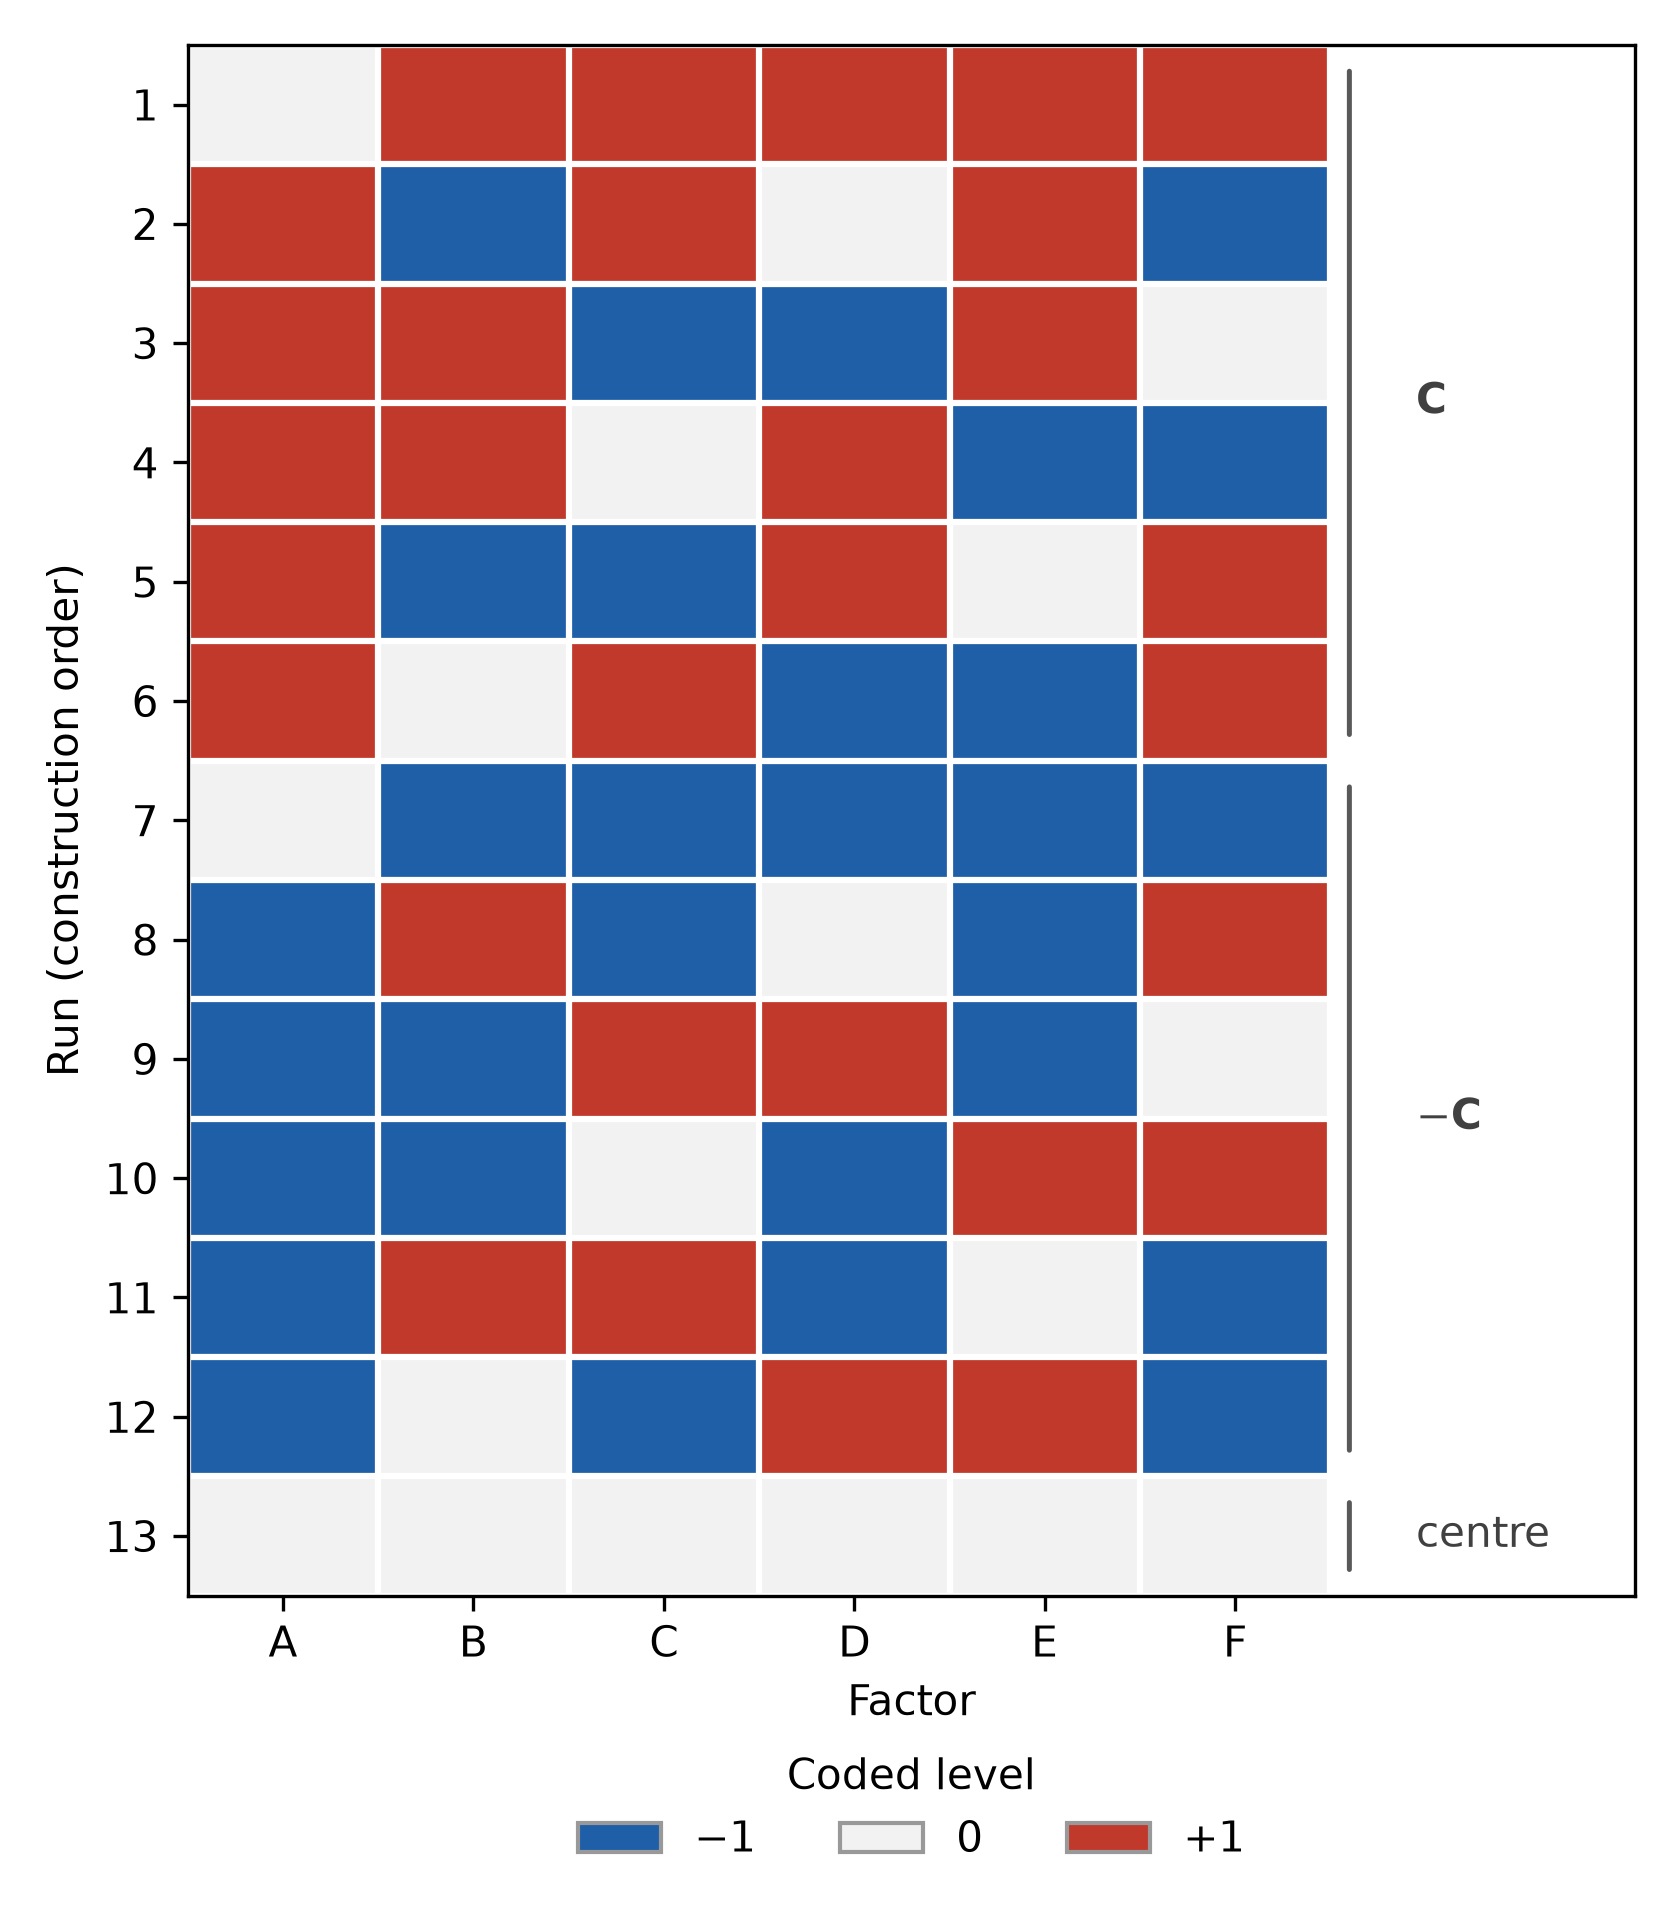
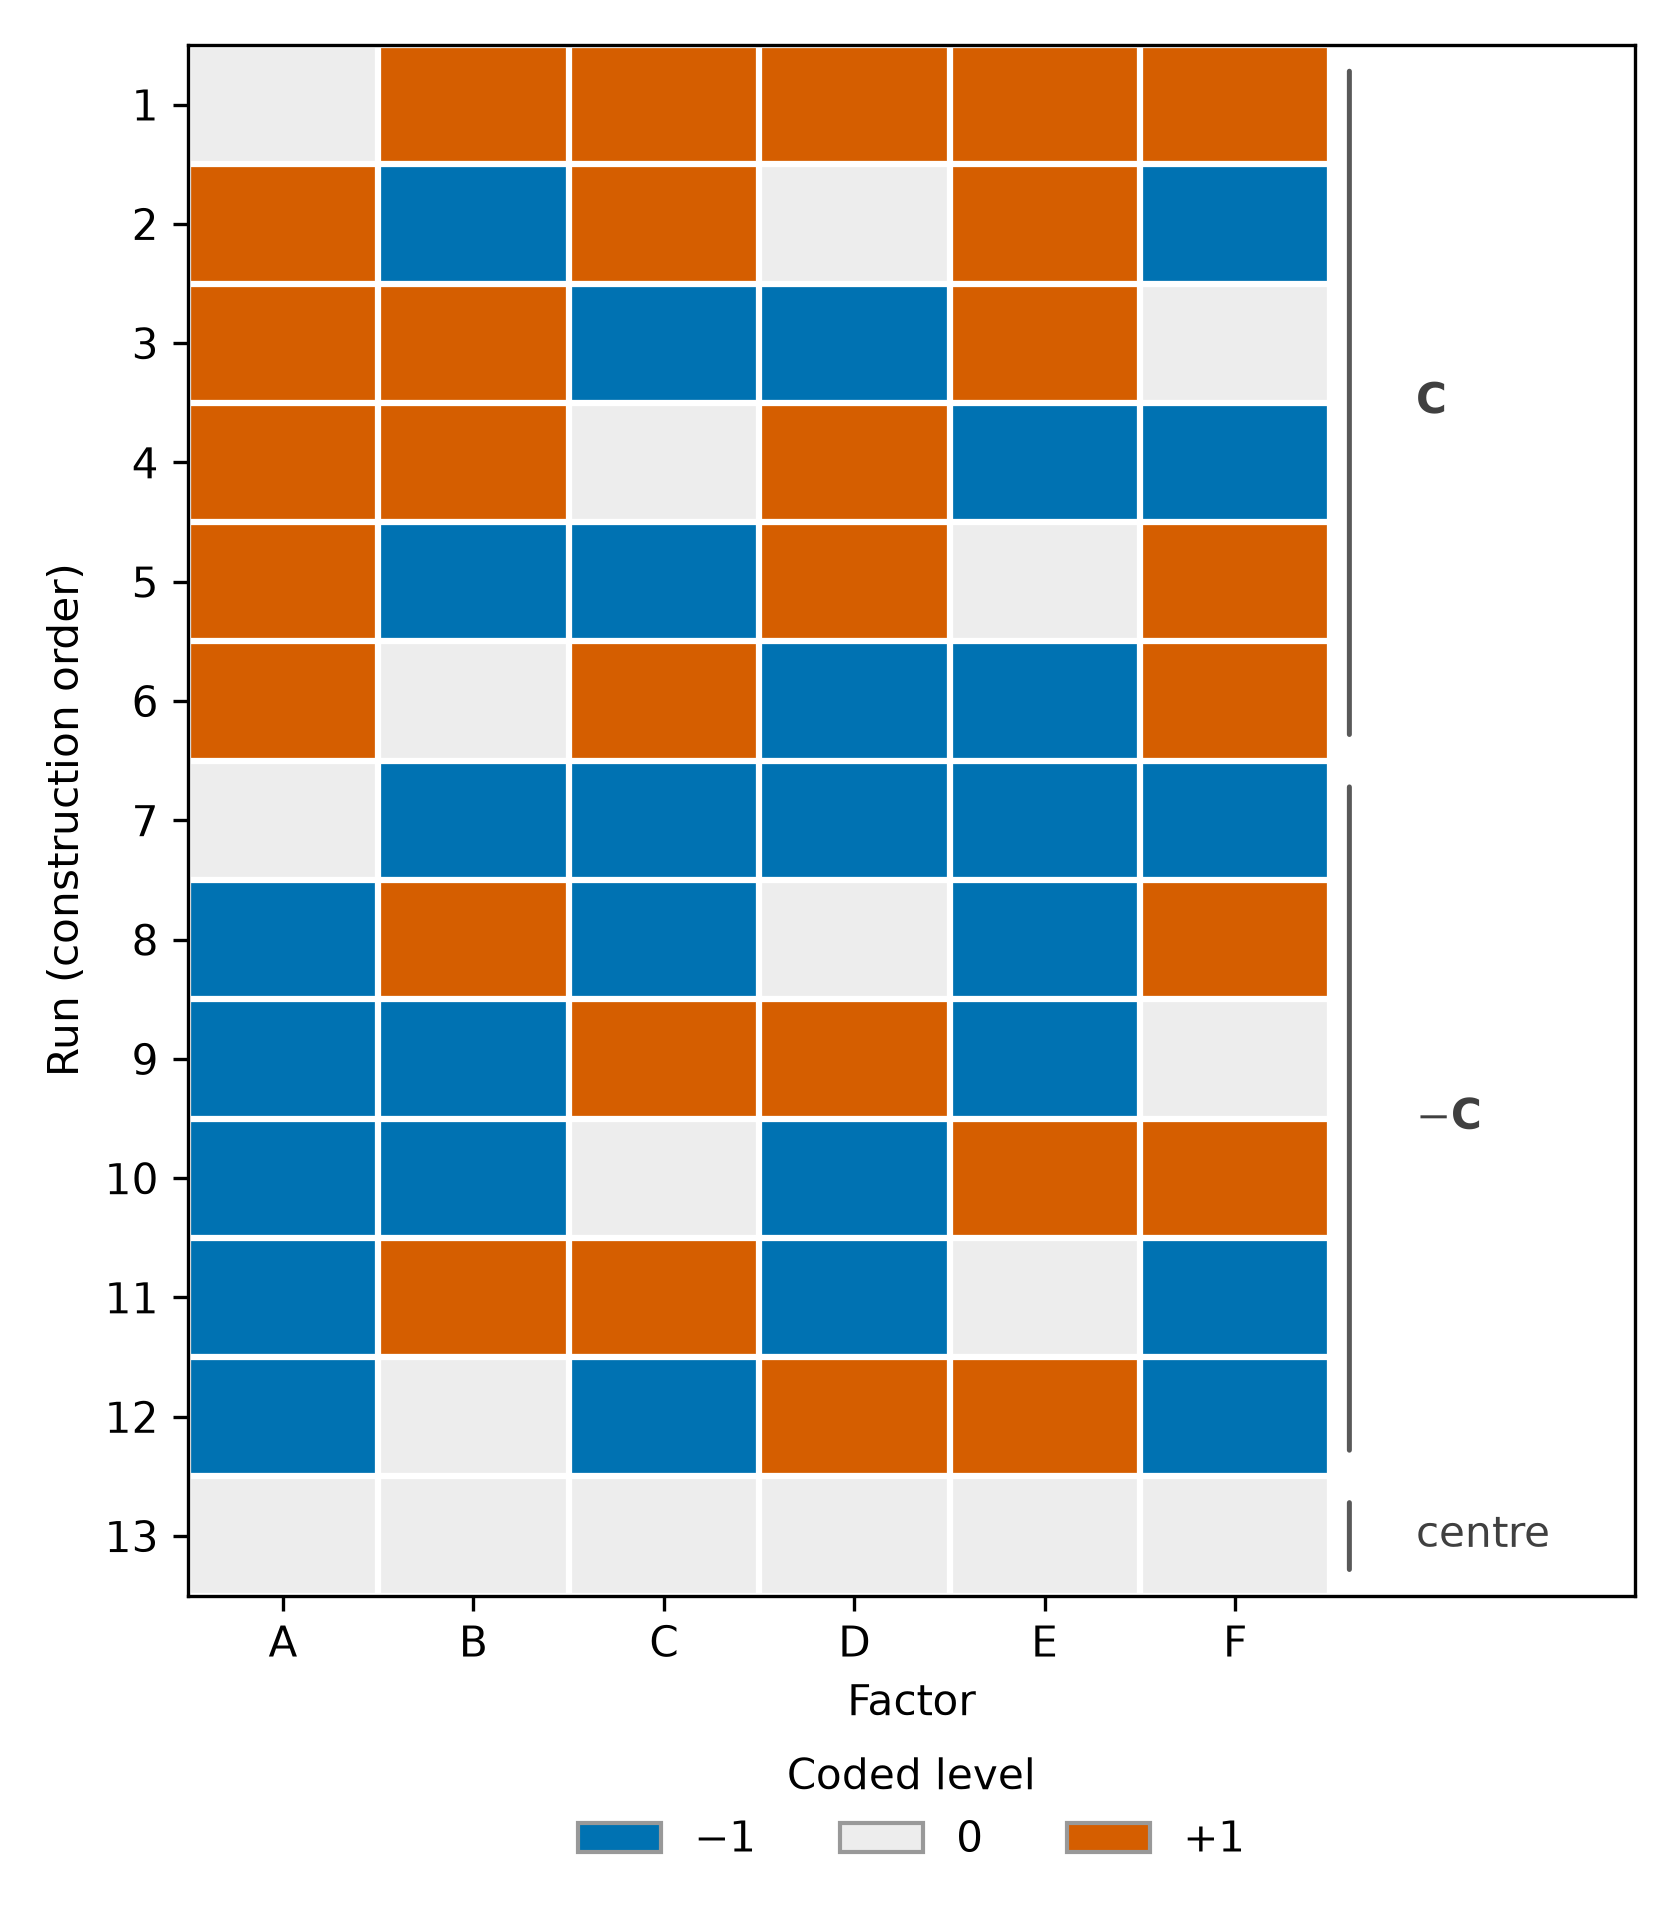
Recolour DSD run-matrix figure with the Okabe-Ito palette
Switch the coded-level colours to the colourblind-safe Okabe-Ito pair: -1 blue
(#0072B2) and +1 vermillion (#D55E00), keeping the neutral grey (#EDEDED) centre.
The blue/vermillion pair reads reliably under deuteranopia and protanopia, where
the previous blue/red pair did not. The white gridlines are retained so the cell
boundaries stay legible if hue collapses.

Claude-Session: https://claude.ai/code/session_017RJ8hbbJb25RGPQg3Mrx7E

diff --git a/doe/dsd-run-matrix.py b/doe/dsd-run-matrix.py
@@ -29,8 +29,9 @@ centre = [i for i, r in enumerate(levels) if not r.any()]
 order = top + mirror + centre
 matrix = levels[order]
 
-# Three discrete colours for the coded levels -1 / 0 / +1.
-cmap = ListedColormap(["#1f5fa8", "#f2f2f2", "#c0392b"])
+# Three discrete colours for the coded levels -1 / 0 / +1, using the colourblind-safe
+# Okabe-Ito blue / vermillion pair with a neutral grey centre.
+cmap = ListedColormap(["#0072B2", "#EDEDED", "#D55E00"])
 norm = BoundaryNorm([-1.5, -0.5, 0.5, 1.5], cmap.N)
 
 fig, ax = plt.subplots(figsize=(5.6, 6.4))
@@ -66,9 +67,9 @@ for lo, hi, label in spans:
 ax.set_xlim(-0.5, matrix.shape[1] + 1.1)
 
 # Legend mapping the three colours to the coded factor levels.
-handles = [Patch(facecolor="#1f5fa8", edgecolor="0.6", label="$-1$"),
-           Patch(facecolor="#f2f2f2", edgecolor="0.6", label="$0$"),
-           Patch(facecolor="#c0392b", edgecolor="0.6", label="$+1$")]
+handles = [Patch(facecolor="#0072B2", edgecolor="0.6", label="$-1$"),
+           Patch(facecolor="#EDEDED", edgecolor="0.6", label="$0$"),
+           Patch(facecolor="#D55E00", edgecolor="0.6", label="$+1$")]
 ax.legend(handles=handles, title="Coded level", loc="upper center",
           bbox_to_anchor=(0.5, -0.08), ncol=3, frameon=False)
 
